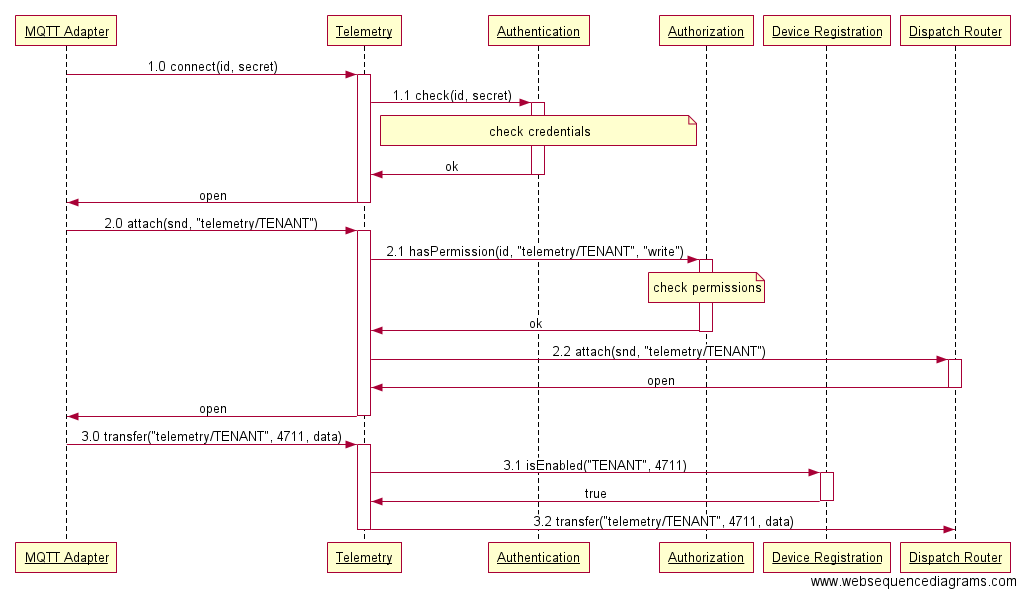
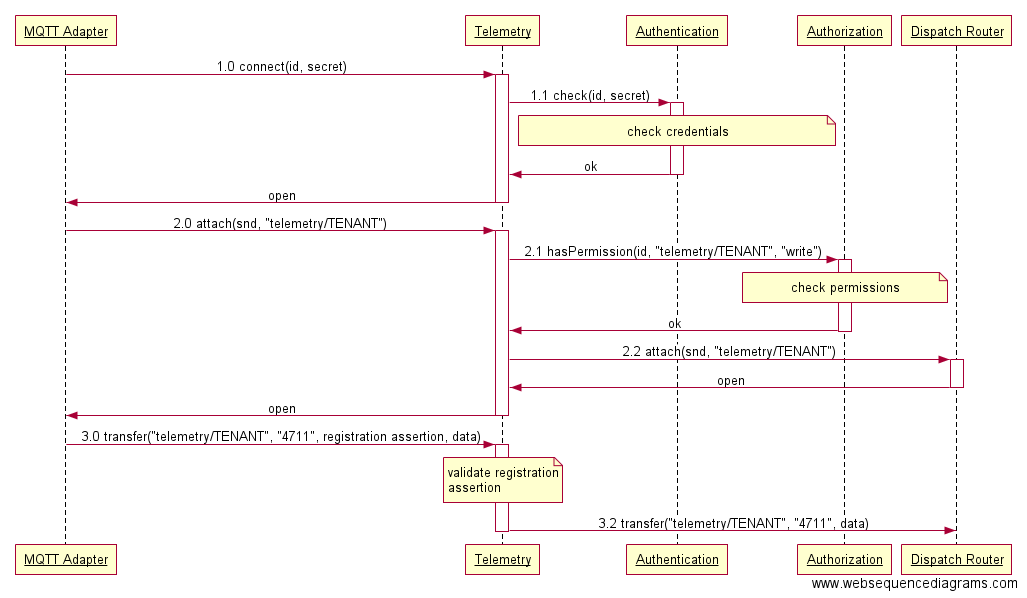
[#170] Document required registration assertion for Telemetry/Event API

diff --git a/site/content/api/Telemetry-API.md b/site/content/api/Telemetry-API.md
@@ -15,13 +15,14 @@ The following operations can be used by *Devices* and/or *Protocol Adapters* (to
 
 Both *Devices* as well as *Protocol Adapters* will be referred to as *clients* in the remainder of this section.
 
-### Upload Telemetry Data
+## Upload Telemetry Data
 
 **Preconditions**
 
 1. Client has established an AMQP connection with Hono.
-2. Client has established an AMQP link in role *sender* with Hono using target address `telemetry/${tenant_id}` where `tenant_id` is the ID of the tenant that the client wants to upload telemetry data for. 
-3. The device for which the client wants to upload telemetry data has been registered (see [Device Registration API](../Device-Registration-API)).
+1. Client has established an AMQP link in role *sender* with Hono using target address `telemetry/${tenant_id}` where `tenant_id` is the ID of the tenant that the client wants to upload telemetry data for. 
+1. The device for which the client wants to upload telemetry data has been registered (see [Device Registration API]({{< relref "Device-Registration-API.md" >}})).
+1. Client has obtained a *registration assertion* for the device from the Device Registration service by means of the [assert Device Registration operation]({{< relref "Device-Registration-API.md#assert-device-registration" >}}).
 
 The client indicates its preferred message delivery mode by means of the `snd-settle-mode` and `rcv-settle-mode` fields of its `attach` frame during link establishment. Hono will receive messages using a delivery mode according to the following table:
 
@@ -46,17 +47,18 @@ Note that the sequence diagram is based on the [Hybrid Connection Model]({{< rel
    1. *Telemetry* endpoint successfully verifies that the adapter has permission to upload telemetry data for `TENANT` using *Authorization* service.
    1. *Telemetry* endpoint opens downstream link to *Dispatch Router* for telemetry data.
 1. *Protocol Adapter* sends telemetry data for device `4711`.
-   1. *Telemetry* endpoint successfully verifies that device `4711` of `TENANT` exists and is enabled using *Device Registration* service.
+   1. *Telemetry* endpoint successfully verifies that device `4711` of `TENANT` exists and is enabled by means of validating the *registration assertion* included in the message (see [Device Registration]({{< relref "api/Device-Registration-API.md#assert-device-registration" >}})).
    1. *Telemetry* endpoint forwards data to *Dispatch Router*.
 
 **Message Format**
 
 The following table provides an overview of the properties a client needs to set on an *Upload Telemetry Data* message.
 
-| Name           | Mandatory | Location     | Type      | Description |
-| :------------- | :-------: | :----------- | :-------- | :---------- |
-| *content-type* | yes       | *properties* | *symbol*  | SHOULD be set to *application/octet-stream* if the message payload is to be considered *opaque* binary data. In most cases though, the client should be able to set a more specific content type indicating the type and characteristics of the data contained in the payload, e.g. `text/plain; charset="utf-8"` for a text message or `application/json` etc. |
-| *device_id*    | yes       | *application-properties* | UTF-8 *string* | MUST contain the ID of the device the data in the payload has been reported by. |
+| Name           | Mandatory | Location                 | Type      | Description |
+| :------------- | :-------: | :----------------------- | :-------- | :---------- |
+| *content-type* | yes       | *properties*             | *symbol*  | SHOULD be set to *application/octet-stream* if the message payload is to be considered *opaque* binary data. In most cases though, the client should be able to set a more specific content type indicating the type and characteristics of the data contained in the payload, e.g. `text/plain; charset="utf-8"` for a text message or `application/json` etc. |
+| *device_id*    | yes       | *application-properties* | *string*  | MUST contain the ID of the device the data in the payload has been reported by. |
+| *assertion*    | yes       | *application-properties* | *string*  | A [JSON Web Token](https://jwt.io/introduction/) issued by the [Device Registration service]({{< relref "api/Device-Registration-API.md#assert-device-registration" >}}) asserting the device's registration status. |
 
 The body of the message MUST consist of a single AMQP *Data* section containing the telemetry data. The format and encoding of the data MUST be indicated by the *content-type* and (optional) *content-encoding* properties of the message.
 
@@ -68,7 +70,7 @@ Whenever a client sends a telemetry message that cannot be processed, e.g. becau
 
 # Northbound Operations
 
-### Receive Telemetry Data
+## Receive Telemetry Data
 
 Hono delivers messages containing telemetry data reported by a particular device in the same order that they have been received in (using the *Upload Telemetry Data* operation defined above).
 Hono MAY drop telemetry messages that it cannot deliver to any consumers. Reasons for this include that there are no consumers connected to Hono or the existing consumers are not able to process the messages from Hono fast enough.
@@ -103,4 +105,4 @@ The *Business Application* can only consume telemetry messages that have been up
 
 **Message Format**
 
-The format of the messages containing the telemetry data is the same as for the *Upload Telemetry Data* operation.
+The format of the messages containing the telemetry data is the same as for the [Upload Telemetry Data operation]({{< relref "#upload-telemetry-data" >}}).

diff --git a/site/content/api/Event-API.md b/site/content/api/Event-API.md
@@ -18,12 +18,14 @@ The following operations can be used by *Devices* and/or *Protocol Adapters* (to
 
 Both *Devices* as well as *Protocol Adapters* will be referred to as *clients* in the remainder of this section.
 
-### Send Event
+## Send Event
 
 **Preconditions**
 
 1. Client has established an AMQP connection with Hono.
-2. Client has established an AMQP link in role *sender* with Hono using target address `event/${tenant_id}` where `tenant_id` is the ID of the tenant that the client wants to upload event messages for. 
+1. Client has established an AMQP link in role *sender* with Hono using target address `event/${tenant_id}` where `tenant_id` is the ID of the tenant that the client wants to upload event messages for. 
+1. The device for which the client wants to send an event has been registered (see [Device Registration API]({{< relref "Device-Registration-API.md" >}})).
+1. Client has obtained a *registration assertion* for the device from the Device Registration service by means of the [assert Device Registration operation]({{< relref "Device-Registration-API.md#assert-device-registration" >}}).
 
 The client indicates its preferred message delivery mode by means of the `snd-settle-mode` and `rcv-settle-mode` fields of its `attach` frame during link establishment. Hono will receive messages using a delivery mode according to the following table:
 
@@ -35,15 +37,15 @@ All other combinations are not supported by Hono and result in a termination of 
 
 **Message Flow**
 
-See [*Telemetry API*]({{< relref "Telemetry-API.md" >}}) for a description of the message flow.
+See [Telemetry API]({{< relref "Telemetry-API.md#upload-telemetry-data" >}}) for a description of the message flow.
 
 **Message Format**
 
-See [*Telemetry API*]({{< relref "Telemetry-API.md" >}}) for definition of message format. 
+See [Telemetry API]({{< relref "Telemetry-API.md#upload-telemetry-data" >}}) for definition of message format.
 
 # Northbound Operations
 
-### Receive Events
+## Receive Events
 
 Hono delivers messages containing event messages reported by a particular device in the same order that they have been received in (using the *Events* operation defined above).
 Hono supports multiple non-competing *Business Application* consumers of event messages for a given tenant. Hono allows each *Business Application* to have multiple competing consumers for event messages for a given tenant to share the load of processing the messages.

diff --git a/site/content/release-notes.md b/site/content/release-notes.md
@@ -36,3 +36,4 @@ The following backwards incompatible changes have been made to existing API, cod
 1. Rename property `id` of Device Registration API's response payload to `device-id` to match the name used in Credentials API.
 
 1. Introduce mandatory to implement [assert Device Registration]({{< relref "api/Device-Registration-API.md#assert-device-registration" >}}) operation to `Device Registration API`. This operation is used by clients to assert that a given device is enabled and is registered with a particular tenant. The assertion is issued in the form of a cryptographically signed JSON Web Token (JWT) which needs to be included in messages sent to Hono containing telemtry data or an event originating from the given device.
+   This also had an impact on the [*upload Telemetry Data* operation]({{< relref "api/Telemetry-API.md#upload-telemetry-data" >}}) of the Telemetry API and the [*send Event* operation]({{< relref "api/Event-API.md#send-event" >}}) of the Event API which now both require a *registration assertion* to be included in the messages containing the data to be published.
